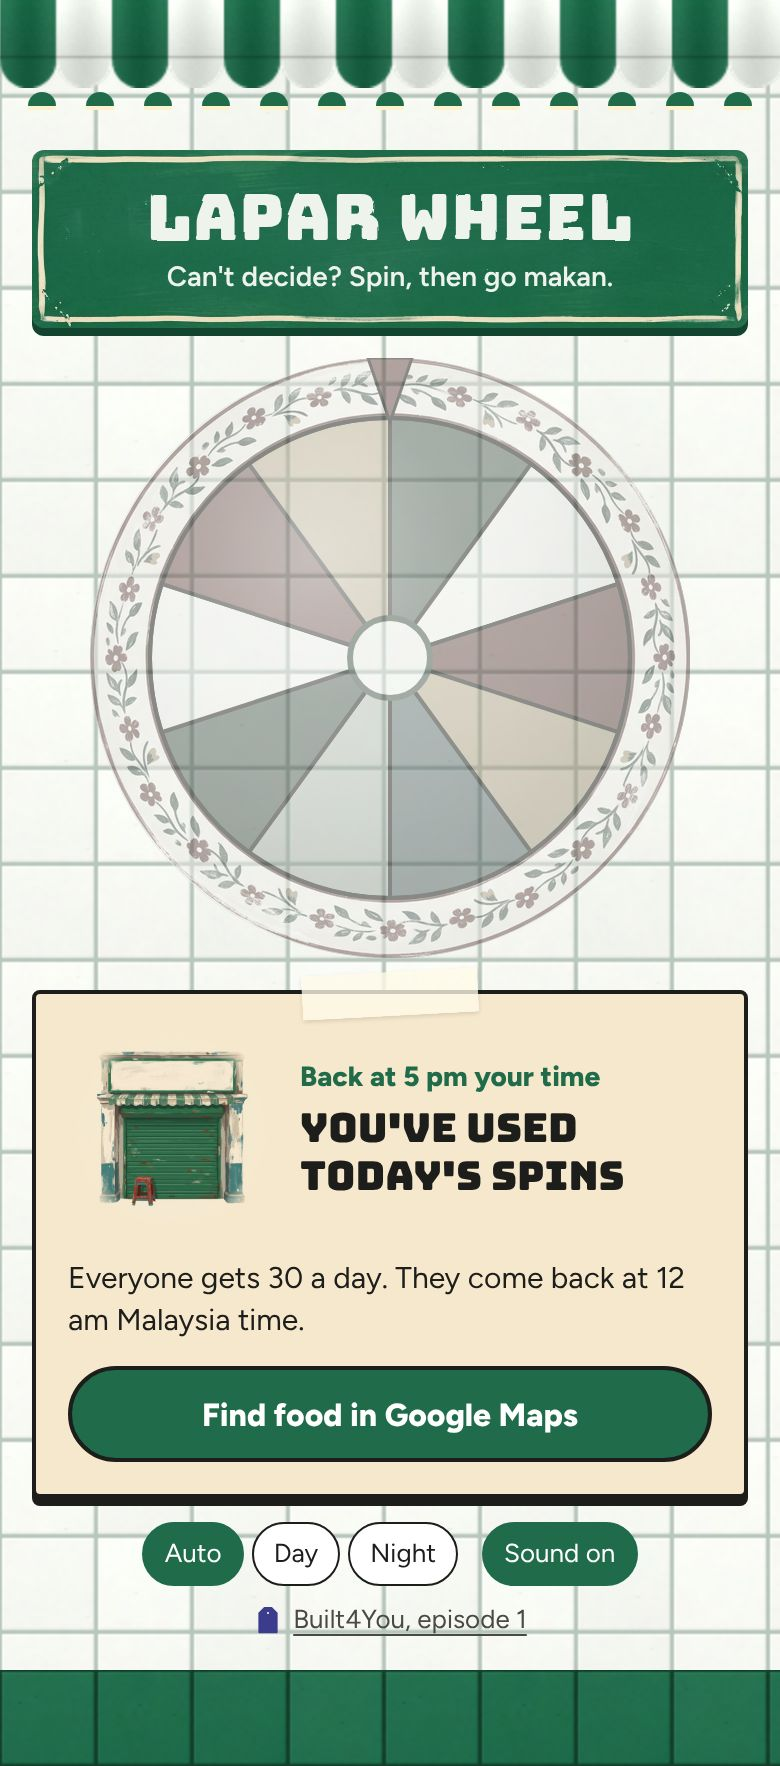
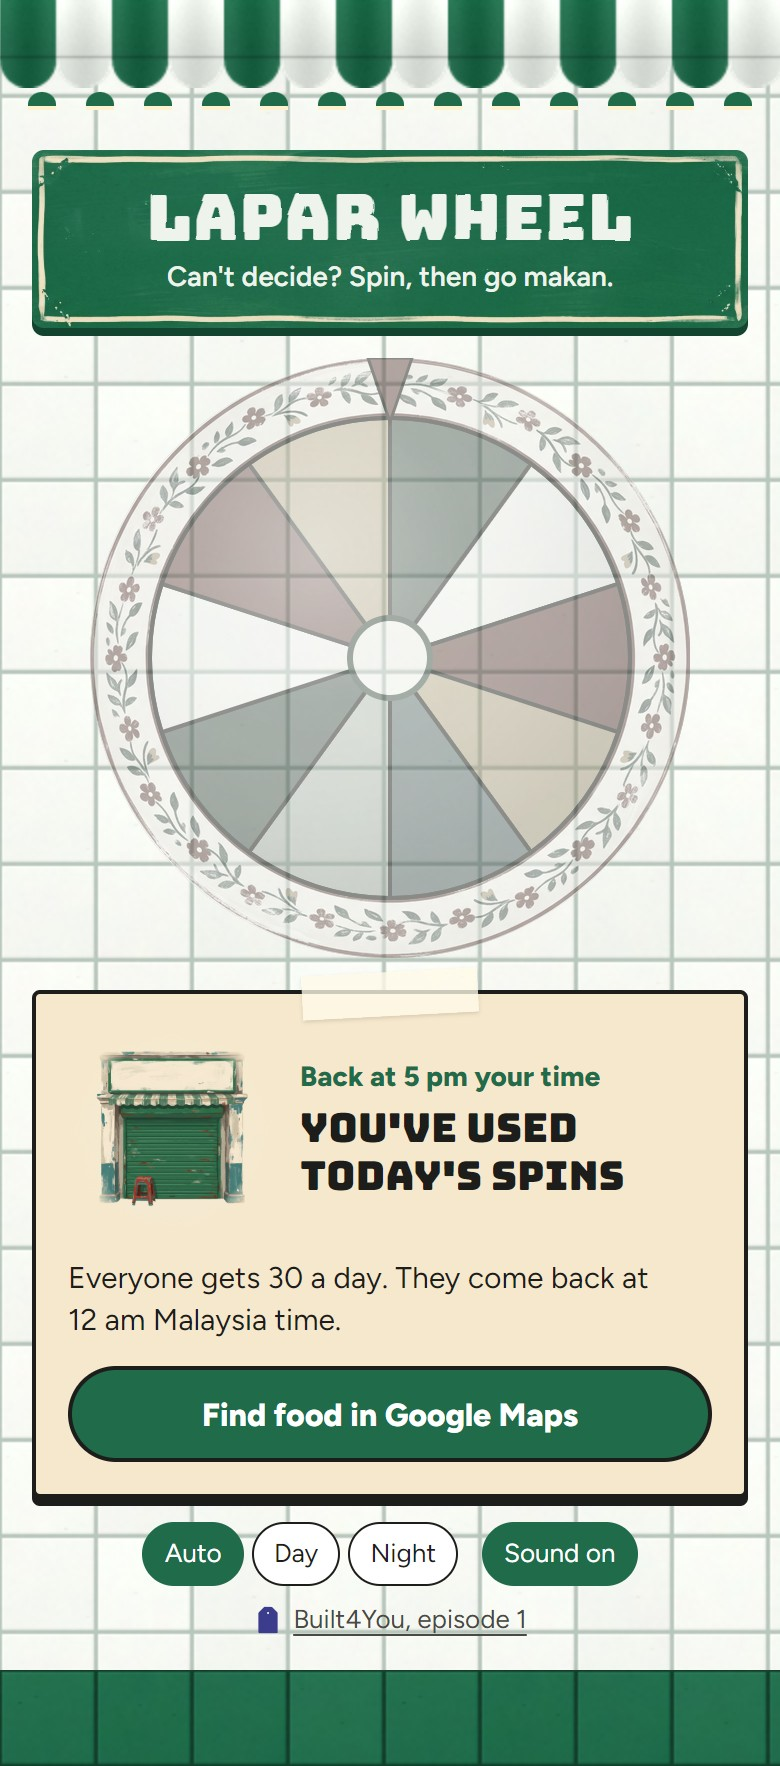
Notice text never leaves a word alone on 360px phones
Kickers use text-wrap: balance and bodies text-wrap: pretty, in the app and the mock. "12 am" gets a no-break space so the time stays on one line. Re-takes the empty-10 and ip-cap screenshots, whose lines changed.

diff --git a/docs/redesign/reference.html b/docs/redesign/reference.html
@@ -80,9 +80,9 @@ body{margin:0;background:#8a8a8a;font-family:Figtree,system-ui,sans-serif}
 .tape{position:absolute;top:-11px;left:50%;width:88px;height:22px;transform:translateX(-50%) rotate(-3deg);background:rgba(255,250,232,0.78);box-shadow:0 1px 2px rgba(0,0,0,0.12)}
 .notice-top{display:flex;align-items:center;gap:12px}
 .pic{flex:none;-webkit-mask-image:radial-gradient(circle,#000 58%,transparent 71%);mask-image:radial-gradient(circle,#000 58%,transparent 71%)}
-.nkicker{margin:0;font-weight:800;font-size:14px;line-height:18px;color:var(--kicker-paper)}
+.nkicker{margin:0;font-weight:800;font-size:14px;line-height:18px;color:var(--kicker-paper);text-wrap:balance}
 .nhead{margin:0;font-family:Bungee,sans-serif;font-weight:400;font-size:20px;line-height:24px}
-.nbody{margin:0;font-size:15px;line-height:21px}
+.nbody{margin:0;font-size:15px;line-height:21px;text-wrap:pretty}
 .notice .btn-primary{background:#1f6b4a;color:#ffffff;border:2px solid #1d1d1b;font-weight:800}
 [data-look="night"] .notice .btn-primary{background:#ff4f8b;color:#1a1530;border-color:#1a1530}
 .notice .btn-outline{background:transparent;color:#1d1d1b;border:2px solid #1d1d1b}
@@ -218,11 +218,11 @@ switch (state) {
     break;
   case "cap":
     faded = true; closed = true;
-    middle = notice({ pic: capPic, kicker: "Back at midnight", head: "Out of spins for today", body: "Lapar Wheel has a daily limit so it stays free. Spins come back at 12 am Malaysia time.", buttons: ["Find food in Google Maps"] });
+    middle = notice({ pic: capPic, kicker: "Back at midnight", head: "Out of spins for today", body: "Lapar Wheel has a daily limit so it stays free. Spins come back at 12&nbsp;am Malaysia time.", buttons: ["Find food in Google Maps"] });
     break;
   case "ip-cap":
     faded = true; closed = true;
-    middle = notice({ pic: capPic, kicker: "Back at 5 pm your time", head: "You've used today's spins", body: "Everyone gets 30 a day. They come back at 12 am Malaysia time.", buttons: ["Find food in Google Maps"] });
+    middle = notice({ pic: capPic, kicker: "Back at 5 pm your time", head: "You've used today's spins", body: "Everyone gets 30 a day. They come back at 12&nbsp;am Malaysia time.", buttons: ["Find food in Google Maps"] });
     break;
   case "rate":
     faded = true;

diff --git a/lib/near-me.ts b/lib/near-me.ts
@@ -45,16 +45,17 @@ export type Filters = { radiusKm: number; cuisine: string; ratingOn: boolean };
 /** What a failed search shows. A cap gets the picture, the reset time and a Maps link; the rest get "Try again". */
 export type ErrorNotice = { headline: string; body: string | null; cap: boolean };
 
+// A no-break space in "12\u00a0am" keeps the time on one line on narrow phones.
 const ERRORS: Record<string, ErrorNotice> = {
   rate_limited: { headline: "Slow down", body: "Try again in a minute.", cap: false },
   daily_cap: {
     headline: "Out of spins for today",
-    body: "Lapar Wheel has a daily limit so it stays free. Spins come back at 12 am Malaysia time.",
+    body: "Lapar Wheel has a daily limit so it stays free. Spins come back at 12\u00a0am Malaysia time.",
     cap: true,
   },
   ip_daily_cap: {
     headline: "You’ve used today’s spins",
-    body: "Everyone gets 30 a day. They come back at 12 am Malaysia time.",
+    body: "Everyone gets 30 a day. They come back at 12\u00a0am Malaysia time.",
     cap: true,
   },
 };

diff --git a/components/Notice.tsx b/components/Notice.tsx
@@ -45,11 +45,16 @@ export function Notice({ picture, kicker, headline, body, actions, children }: P
             />
           ))}
         <div className="flex min-w-0 flex-col gap-1">
-          {kicker && <p className="text-notice-kicker text-paper-kicker">{kicker}</p>}
+          {/* Balanced and pretty wraps: no word left alone on a line on 360px phones. */}
+          {kicker && <p className="text-notice-kicker text-balance text-paper-kicker">{kicker}</p>}
           <h2 className="font-sign text-notice-title">{headline}</h2>
         </div>
       </div>
-      {typeof body === "string" ? <p className="text-notice-body">{body}</p> : body && <div className="text-notice-body">{body}</div>}
+      {typeof body === "string" ? (
+        <p className="text-notice-body text-pretty">{body}</p>
+      ) : (
+        body && <div className="text-notice-body text-pretty">{body}</div>
+      )}
       <div className={buttonRow}>{actions}</div>
       {children}
     </div>

diff --git a/tests/near-me.test.ts b/tests/near-me.test.ts
@@ -53,11 +53,11 @@ describe("mapsUrl", () => {
 describe("messages", () => {
   it.each([
     ["rate_limited", "Slow down", "Try again in a minute.", false],
-    ["ip_daily_cap", "You’ve used today’s spins", "Everyone gets 30 a day. They come back at 12 am Malaysia time.", true],
+    ["ip_daily_cap", "You’ve used today’s spins", "Everyone gets 30 a day. They come back at 12\u00a0am Malaysia time.", true],
     [
       "daily_cap",
       "Out of spins for today",
-      "Lapar Wheel has a daily limit so it stays free. Spins come back at 12 am Malaysia time.",
+      "Lapar Wheel has a daily limit so it stays free. Spins come back at 12\u00a0am Malaysia time.",
       true,
     ],
     ["upstream", "Something went wrong", null, false],

diff --git a/REVIEW_LOG.md b/REVIEW_LOG.md
@@ -4,6 +4,7 @@ Mistakes caught during review, mine and the AI's. Newest first.
 
 | Date | Where | Mistake | Caught by | Fix |
 |---|---|---|---|---|
+| 2026-11-05 | `components/Notice.tsx`, `lib/near-me.ts` | Notice text wrapped badly on narrow phones: a lone "up" in the empty-2 kicker and "time." in the cap body at 360px, "more." in the empty-10 body and "12 / am" in the ip-cap body even at 390px | Claude Code, 360px check before merging PR 22 | Kickers wrap balanced, bodies pretty, and "12 am" has a no-break space; empty-10 and ip-cap screenshots re-taken |
 | 2026-11-05 | `components/NearMe.tsx` wheel | The turning layer is a square, so at some landing angles its rotated corners reached past the column and the page scrolled sideways (4px at 360px after one test spin, up to about 17px at 390px) | Claude Code, first 360px check in PR 22 | The wheel section clips on the x axis; the round wheel and the pointer are untouched |
 | 2026-11-05 | `docs/redesign.md` result card | Three buttons filled the 390px row with no spare room, so Share wrapped on 375px and 360px phones and whenever "Link copied" showed | Claude Code, PR 22 | Two buttons (Spin again, Share) plus a "Change filters" link |
 | 2026-11-05 | `docs/redesign/reference.html` shared-cap | The mock showed a "Google Maps" line on the out-of-spins share card, where no Google data appears | Claude Code, comparing the mock with the spec | Line removed and the shared-cap screenshots re-taken |

diff --git a/docs/redesign.md b/docs/redesign.md
@@ -119,7 +119,7 @@ A notice replaces the summary and the Spin button whenever there's no pick, and 
 - Day: 2px `#1d1d1b` border, `0 4px 0 #1d1d1b` shadow. Night: 2px `#1a1530` border, glow `0 0 0 1px rgba(255,217,138,0.25), 0 0 36px rgba(255,217,138,0.28)`.
 - Tape: an 88×22px strip centred on the top edge (top −11px), rotated −3°, `rgba(255,250,232,0.78)`, shadow `0 1px 2px rgba(0,0,0,0.12)`, `aria-hidden`.
 - Top row: the picture (104px, empty `alt`, edges feathered with `mask-image: radial-gradient(circle, #000 58%, transparent 71%)`), then a column with the kicker (Figtree 800, 14/18; day `#1f6b4a`, night `#5b3fd9`) and the headline (`<h2>`, Bungee 20/24).
-- An optional body line (Figtree 15/21).
+- An optional body line (Figtree 15/21). The kicker wraps balanced (`text-wrap: balance`) and the body pretty (`text-wrap: pretty`), so a 360px phone never leaves one word alone on a line.
 - Buttons: up to two, in a wrapping flex row with an 8px gap. Each grows to fill (`flex: 1 1 auto`) and its label never wraps (`white-space: nowrap`), so two share a row when they fit and otherwise each takes a full row. 48px tall, pill. The first is primary (day: `#1f6b4a` with white text; night: `#ff4f8b` with `#1a1530` text). The second is an outline: 2px `#1d1d1b`, transparent, `#1d1d1b` text, in both looks.
 - Contrast on the paper: ink 13.9, day kicker 5.3, night kicker 5.5. Add them to the contrast test.
 
